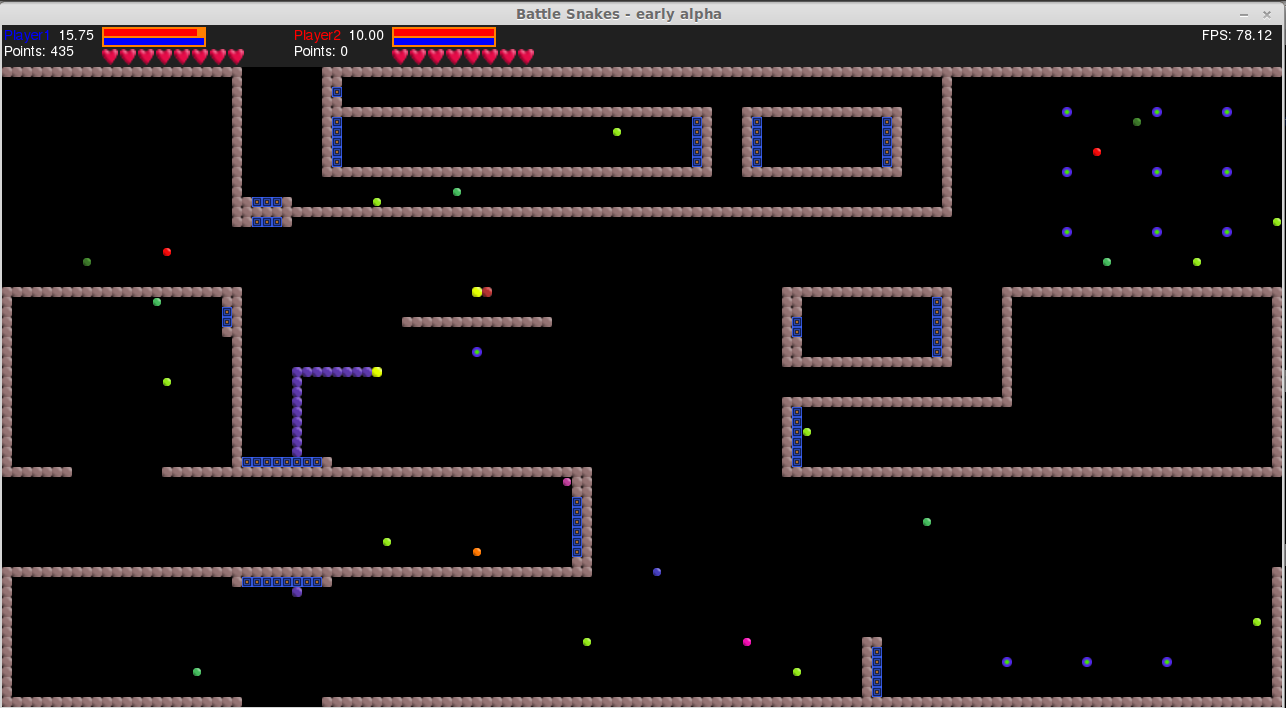
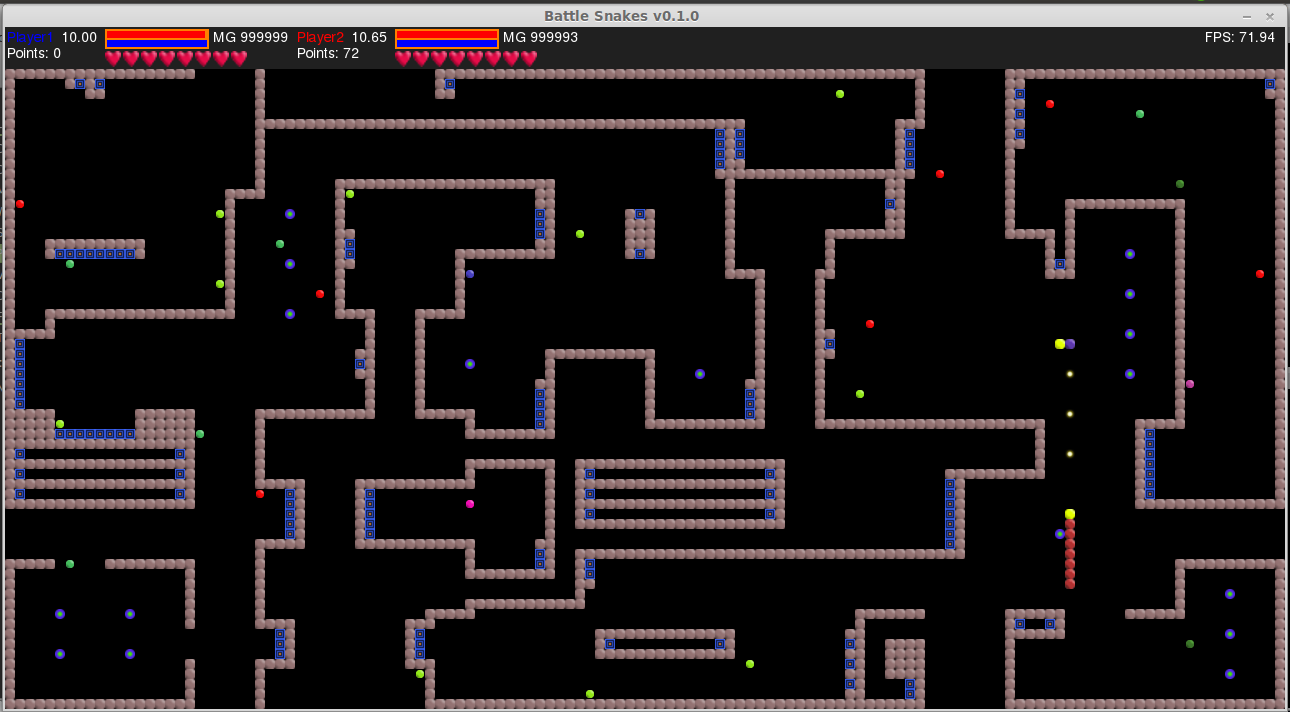
Update README.md

Changed region(s): [[0.0, 0.0, 1.0, 1.0], [0.8709, 0.1554, 0.902, 0.1864], [0.0933, 0.9011, 0.1244, 0.9322]]

diff --git a/src/combat.py b/src/combat.py
@@ -6,9 +6,9 @@ SHOT1 = {'tex':'shot1', 'speed':70, 'damage':100}
 PLASMA_SHOT = {'tex':'shot2', 'speed':30, 'damage':25, 'slowdown':2.5}
 
 # Weapons
-STD_MG = {'shot':MG_SHOT1, 'type':'std_mg', 'ammo':9999, 'freq':8}
-H_GUN = {'shot':SHOT1, 'type':'h_gun', 'ammo':20, 'freq':1.3}
-PLASMA_GUN = {'shot':PLASMA_SHOT, 'type':'plasma', 'ammo':50, 'freq':2.5}
+STD_MG = {'shot':MG_SHOT1, 'type':'MG', 'ammo':999999, 'freq':8}
+H_GUN = {'shot':SHOT1, 'type':'Cannon', 'ammo':20, 'freq':1.3}
+PLASMA_GUN = {'shot':PLASMA_SHOT, 'type':'Plasma', 'ammo':50, 'freq':2.5}
 
 class Shot:
 	def __init__(self, game, pos, heading, tag, config):

diff --git a/src/Game.py b/src/Game.py
@@ -102,7 +102,7 @@ class Game1:
 		self.spatialhash = defaultdict(list)
 		
 		maybe_portals = {}
-		mapsurf = pygame.image.load('../data/maps/testmap2.png')
+		mapsurf = pygame.image.load('../data/maps/testmap0.png')
 		mapdata = pygame.PixelArray(mapsurf)
 		# Load map
 		for y in range(ROWS):

diff --git a/README.md b/README.md
@@ -1,5 +1,5 @@
-battle-snakes
-=============
+Battle Snakes v0.1.0
+====================
 
 Battle Snakes is a - at the moment - multiplayer-only action game inspired by the classic Snake game.
 
@@ -9,21 +9,19 @@ It is still alpha and many features have yet to be implemented (Most importantly
 
 #####Controls
 
-######Player 1 
+Player 1 
 
-Movement = Arrow Keys
+* Movement = Arrow Keys
+* Shoot = l 
+* Speed Boost = k 
+* Next Weapon = j
 
-Shoot = l 
+Player 2 
 
-Speed Boost = k 
-
-######Player 2 
-
-Movement = WASD
-
-Shoot = f
-
-Speed Boost = g
+* Movement = WASD
+* Shoot = c
+* Speed Boost = v
+* Next Weapon = b
 
 
 #####Dependencies
